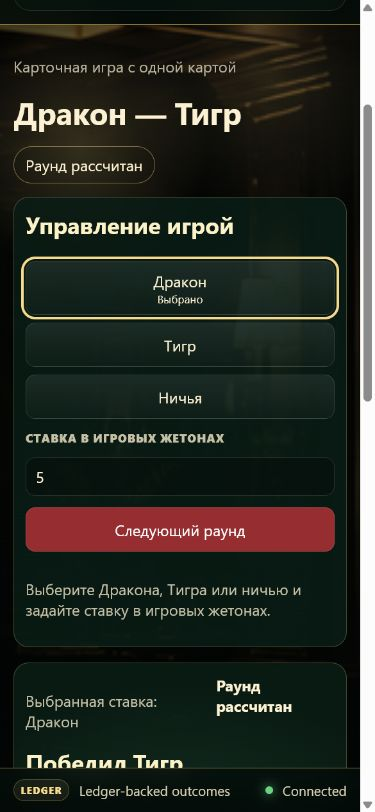
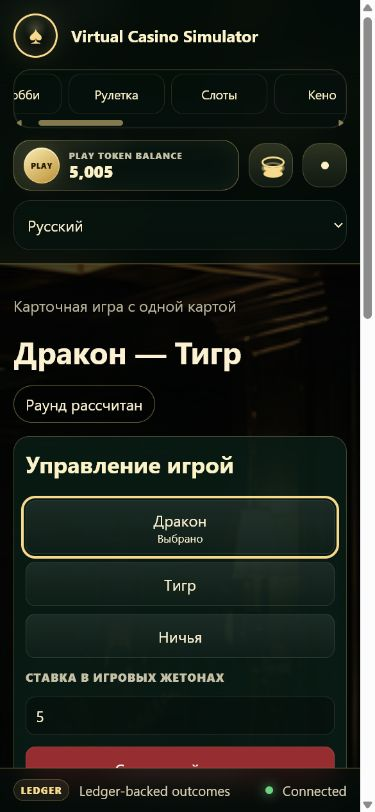
Guard Dragon Tiger initial state load

diff --git a/web/games/dragon_tiger.js b/web/games/dragon_tiger.js
@@ -32,6 +32,8 @@ let selectedBet = 'dragon';
 let wager = 5;
 // Retain request-bound dealing state without allocating a presentation timer.
 let dealing = false;
+// Block player actions until the initial session-bound snapshot resolves.
+let initialLoading = false;
 // Retain the complete unresolved request so retries reuse its action id and payload.
 let pendingAction = null;
 // Retain locale cleanup so unmount releases its subscription.
@@ -158,19 +160,21 @@ function winnerKey(round) {
 }
 
 // Render all route markup through an injectable translation seam.
-export function viewMarkup({ snapshot = gameState, translate = text, selected = selectedBet, wagerValue = wager, isDealing = dealing, pending = pendingAction } = {}) {
+export function viewMarkup({ snapshot = gameState, translate = text, selected = selectedBet, wagerValue = wager, isDealing = dealing, isLoading = initialLoading, pending = pendingAction } = {}) {
   // Resolve the newest completed round once for a consistent frame.
   const round = currentRound(snapshot);
   // Resolve the request-bound or settled player-facing phase.
-  const phase = translate(isDealing ? 'phases.dealing' : round ? 'phases.settled' : 'phases.ready');
+  const phase = translate(isLoading ? 'phases.loading' : isDealing ? 'phases.dealing' : round ? 'phases.settled' : 'phases.ready');
   // Resolve the current winner without exposing its internal enum.
   const result = translate(`outcomes.${winnerKey(round)}`);
   // Disable configuration while a request or unresolved retry owns its payload.
-  const configurationDisabled = isDealing || Boolean(pending);
+  const configurationDisabled = isLoading || isDealing || Boolean(pending);
+  // Keep a saved retry actionable while blocking initial-load and in-flight clicks.
+  const actionDisabled = isLoading || isDealing;
   // Render semantic pressed-state wager buttons with visible selected copy.
   const bets = BETS.map(bet => `<button type="button" class="dt-bet${selected === bet ? ' is-selected' : ''}" data-bet="${bet}" aria-pressed="${selected === bet}"${configurationDisabled ? ' disabled' : ''}>${safe(translate(`bets.${bet}`))}${selected === bet ? `<span class="dt-selected">${safe(translate('bets.selected'))}</span>` : ''}</button>`).join('');
   // Resolve the primary action label for normal, request, and retry states.
-  const actionLabel = translate(isDealing ? 'controls.dealing' : pending ? 'controls.retry' : round ? 'controls.dealNext' : 'controls.deal');
+  const actionLabel = translate(isLoading ? 'controls.loading' : isDealing ? 'controls.dealing' : pending ? 'controls.retry' : round ? 'controls.dealNext' : 'controls.deal');
   // Render the two visible cards or localized face-down placeholders.
   const dragonCard = localizedCard(round?.dragon_card, { hidden: isDealing || !round, translate });
   // Render the opposing card through the same localized primitive adapter.
@@ -186,7 +190,7 @@ export function viewMarkup({ snapshot = gameState, translate = text, selected = 
   // Read server-owned shoe state for the data rail.
   const shoe = snapshot?.shoe || {};
   // Return the complete responsive three-zone route.
-  return `<section class="dragon-tiger" data-testid="dragon-tiger"><header class="dt-header"><div><p class="dt-muted">${safe(translate('eyebrow'))}</p><h1>${safe(translate('title'))}</h1></div><span class="dt-phase" role="status" aria-live="polite">${safe(phase)}</span></header><div class="dt-layout"><section class="dt-panel dt-controls" aria-label="${safe(translate('controls.region'))}"><h2>${safe(translate('controls.title'))}</h2><div class="dt-bets">${bets}</div><label for="dt-wager">${safe(translate('controls.wager'))}</label><input id="dt-wager" type="number" min="0.01" max="1000000" step="0.01" value="${safe(wagerValue)}"${configurationDisabled ? ' disabled' : ''}><button type="button" class="dt-deal" data-action="deal"${isDealing ? ' disabled' : ''}>${safe(actionLabel)}</button><p class="dt-muted">${safe(translate(pending ? 'controls.retryHelp' : 'controls.help'))}</p></section><main class="dt-panel dt-stage" data-testid="dragon-tiger-table" aria-label="${safe(translate('stage.region'))}"><div class="dt-stage-head"><div><p class="dt-muted">${safe(translate('stage.selectedBet', { bet: translate(`bets.${round?.bet || selected}`) }))}</p><h2>${safe(result)}</h2></div><strong>${safe(phase)}</strong></div><div class="dt-hands"><section class="dt-hand" aria-label="${safe(translate('stage.dragonHand'))}"><h3>${safe(translate('bets.dragon'))}</h3>${dragonCard}</section><section class="dt-hand" aria-label="${safe(translate('stage.tigerHand'))}"><h3>${safe(translate('bets.tiger'))}</h3>${tigerCard}</section></div><div class="dt-summary"><div class="dt-stat"><span>${safe(translate('summary.wager'))}</span><strong>${safe(tokenAmount(round?.wager || 0, translate))}</strong></div><div class="dt-stat"><span>${safe(translate('summary.return'))}</span><strong>${safe(tokenAmount(round?.total_return || 0, translate))}</strong></div><div class="dt-stat"><span>${safe(translate('summary.net'))}</span><strong>${safe(tokenAmount(round?.net || 0, translate))}</strong></div></div></main><aside class="dt-panel dt-data" aria-label="${safe(translate('data.region'))}"><h2>${safe(translate('data.title'))}</h2><div class="dt-stat"><span>${safe(translate('data.cardsRemaining'))}</span><strong>${safe(formatNumber(shoe.cards_remaining || 0))}</strong></div><div class="dt-stat"><span>${safe(translate('data.deckCount'))}</span><strong>${safe(formatNumber(rules.deck_count || 0))}</strong></div><p class="dt-muted">${safe(translate('data.rule', { dragon: betRules.dragon?.net_odds ?? 1, tiger: betRules.tiger?.net_odds ?? 1, tie: betRules.tie?.net_odds ?? 11 }))}</p><h3>${safe(translate('history.title'))}</h3><div class="dt-history">${history || `<p class="dt-muted">${safe(translate('history.empty'))}</p>`}</div></aside></div></section>`;
+  return `<section class="dragon-tiger" data-testid="dragon-tiger"><header class="dt-header"><div><p class="dt-muted">${safe(translate('eyebrow'))}</p><h1>${safe(translate('title'))}</h1></div><span class="dt-phase" role="status" aria-live="polite">${safe(phase)}</span></header><div class="dt-layout"><section class="dt-panel dt-controls" aria-label="${safe(translate('controls.region'))}"><h2>${safe(translate('controls.title'))}</h2><div class="dt-bets">${bets}</div><label for="dt-wager">${safe(translate('controls.wager'))}</label><input id="dt-wager" type="number" min="0.01" max="1000000" step="0.01" value="${safe(wagerValue)}"${configurationDisabled ? ' disabled' : ''}><button type="button" class="dt-deal" data-action="deal"${actionDisabled ? ' disabled' : ''}>${safe(actionLabel)}</button><p class="dt-muted">${safe(translate(pending ? 'controls.retryHelp' : 'controls.help'))}</p></section><main class="dt-panel dt-stage" data-testid="dragon-tiger-table" aria-label="${safe(translate('stage.region'))}"><div class="dt-stage-head"><div><p class="dt-muted">${safe(translate('stage.selectedBet', { bet: translate(`bets.${pending?.bet || round?.bet || selected}`) }))}</p><h2>${safe(result)}</h2></div><strong>${safe(phase)}</strong></div><div class="dt-hands"><section class="dt-hand" aria-label="${safe(translate('stage.dragonHand'))}"><h3>${safe(translate('bets.dragon'))}</h3>${dragonCard}</section><section class="dt-hand" aria-label="${safe(translate('stage.tigerHand'))}"><h3>${safe(translate('bets.tiger'))}</h3>${tigerCard}</section></div><div class="dt-summary"><div class="dt-stat"><span>${safe(translate('summary.wager'))}</span><strong>${safe(tokenAmount(round?.wager || 0, translate))}</strong></div><div class="dt-stat"><span>${safe(translate('summary.return'))}</span><strong>${safe(tokenAmount(round?.total_return || 0, translate))}</strong></div><div class="dt-stat"><span>${safe(translate('summary.net'))}</span><strong>${safe(tokenAmount(round?.net || 0, translate))}</strong></div></div></main><aside class="dt-panel dt-data" aria-label="${safe(translate('data.region'))}"><h2>${safe(translate('data.title'))}</h2><div class="dt-stat"><span>${safe(translate('data.cardsRemaining'))}</span><strong>${safe(formatNumber(shoe.cards_remaining || 0))}</strong></div><div class="dt-stat"><span>${safe(translate('data.deckCount'))}</span><strong>${safe(formatNumber(rules.deck_count || 0))}</strong></div><p class="dt-muted">${safe(translate('data.rule', { dragon: betRules.dragon?.net_odds ?? 1, tiger: betRules.tiger?.net_odds ?? 1, tie: betRules.tie?.net_odds ?? 11 }))}</p><h3>${safe(translate('history.title'))}</h3><div class="dt-history">${history || `<p class="dt-muted">${safe(translate('history.empty'))}</p>`}</div></aside></div></section>`;
 }
 
 // Render current state and reconnect semantic controls.
@@ -196,11 +200,11 @@ function render() {
   // Replace the isolated route atomically.
   root.innerHTML = viewMarkup();
   // Bind each wager target to local unsent configuration.
-  root.querySelectorAll('[data-bet]').forEach(button => { button.onclick = () => { if (!dealing && !pendingAction) { selectedBet = button.dataset.bet; render(); } }; });
+  root.querySelectorAll('[data-bet]').forEach(button => { button.onclick = () => { if (!initialLoading && !dealing && !pendingAction) { selectedBet = button.dataset.bet; render(); } }; });
   // Read and bind the wager input created by this render.
   const wagerInput = root.querySelector('#dt-wager');
   // Preserve a positive normalized wager without moving tokens.
-  if (wagerInput) wagerInput.onchange = () => { if (!pendingAction) { wager = Math.min(1000000, Math.max(0.01, Math.round(Number(wagerInput.value || wager || 5) * 100) / 100)); render(); } };
+  if (wagerInput) wagerInput.onchange = () => { if (!initialLoading && !pendingAction) { wager = Math.min(1000000, Math.max(0.01, Math.round(Number(wagerInput.value || wager || 5) * 100) / 100)); render(); } };
   // Bind the one atomic deal action.
   root.querySelector('[data-action="deal"]')?.addEventListener('click', deal);
 }
@@ -208,7 +212,7 @@ function render() {
 // Submit or retry one exactly-once Dragon Tiger round.
 async function deal() {
   // Ignore overlapping clicks while the POST request is active.
-  if (dealing) return;
+  if (initialLoading || dealing) return;
   // Capture one immutable request and retain it through any failed response.
   pendingAction = pendingAction || { action_id: createActionId(), bet: selectedBet, wager };
   // Capture route identity so late completions remain inert.
@@ -269,6 +273,8 @@ export const DragonTigerGame = {
     pendingAction = null;
     // Reset the request-bound phase.
     dealing = false;
+    // Hold every player action until the session-bound GET finishes.
+    initialLoading = true;
     // Install shared and route-local presentation once.
     ensureCardStyles();
     // Install the responsive game presentation.
@@ -279,7 +285,7 @@ export const DragonTigerGame = {
     if (!root || identity !== mountIdentity) return;
     // Subscribe to live locale changes without losing backend state.
     unsubscribeLocale = onLocaleChange(() => render());
-    // Render a localized ready frame while backend state loads.
+    // Render a localized inert loading frame while backend state loads.
     render();
     // Load the authenticated player's reload-safe state.
     try {
@@ -289,6 +295,8 @@ export const DragonTigerGame = {
       if (!root || identity !== mountIdentity) return;
       // Store the documented state and top-level rules.
       gameState = normalizeStatePayload(payload);
+      // Release the initial action guard only after the snapshot is authoritative.
+      initialLoading = false;
       // Render recovered shoe and round history.
       render();
       // Align the shared wallet without misclassifying an already loaded game state.
@@ -302,6 +310,12 @@ export const DragonTigerGame = {
       }
     // Surface a localized load failure while leaving a retry-safe ready frame.
     } catch (_) {
+      // Stop a late rejection from releasing a newer mount's initial-load guard.
+      if (!root || identity !== mountIdentity) return;
+      // Release the guard because the failed GET can no longer overwrite a later action.
+      initialLoading = false;
+      // Re-render one actionable retry-safe frame after the failed snapshot request.
+      render();
       // Notify only while this mount still owns the route.
       if (root && identity === mountIdentity) toast(text('errors.loadFailed'));
     }
@@ -322,5 +336,7 @@ export const DragonTigerGame = {
     pendingAction = null;
     // Release request-bound presentation state; this module owns no timers.
     dealing = false;
+    // Release initial-load presentation state at the session boundary.
+    initialLoading = false;
   },
 };
